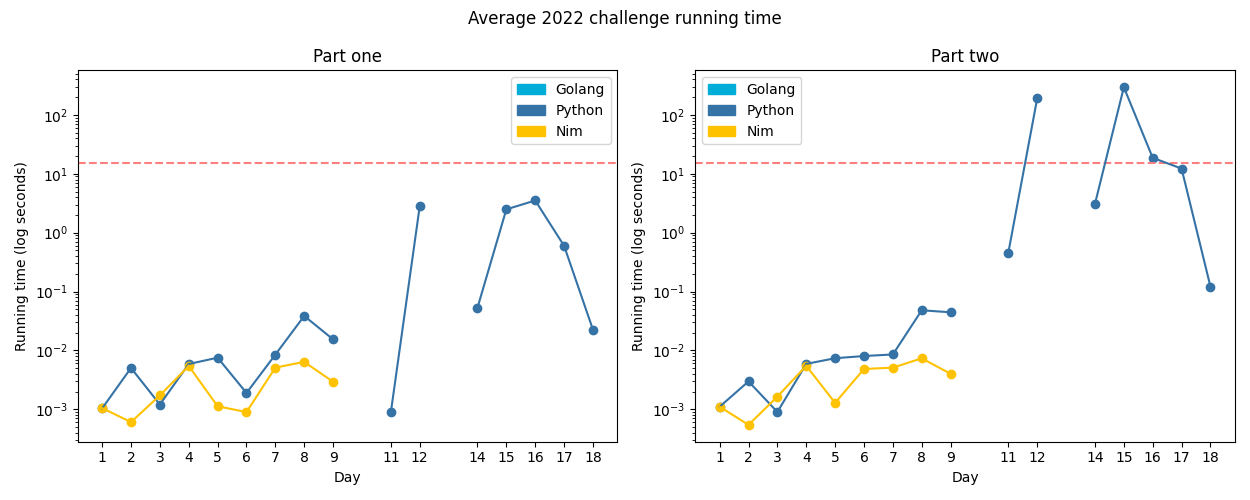
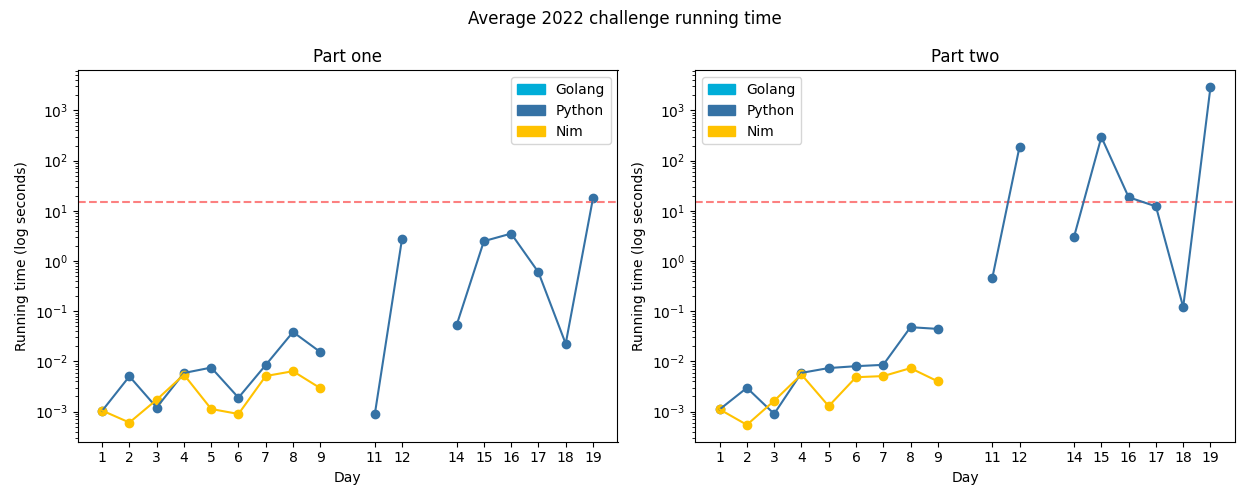
2022-19
2022-19 attempt 1

2022-19 attempt 2

I think this is semi-functional

2022-19

diff --git a/challenges/2022/19-notEnoughMinerals/py/__init__.py b/challenges/2022/19-notEnoughMinerals/py/__init__.py
@@ -1,0 +1,143 @@
+from typing import *
+from aocpy import BaseChallenge, foldl
+from dataclasses import dataclass
+import re
+from enum import Enum
+
+
+class Material(Enum):
+    ORE = 0
+    CLAY = 1
+    OBSIDIAN = 2
+    GEODE = 3
+
+
+MaterialTracker = Tuple[int, int, int, int]
+
+
+@dataclass(init=False)
+class Blueprint:
+    number: int
+
+    robots: Dict[Material, MaterialTracker]
+
+    def __init__(self, number: int, ore_robot_cost: int, clay_robot_cost: int, obsidian_robot_cost_ore: int, obsidian_robot_cost_clay: int, geode_robot_cost_ore: int, geode_robot_cost_obsidian: int):
+        self.number = number
+    
+        self.robots = {
+            Material.ORE: (ore_robot_cost, 0, 0, 0),
+            Material.CLAY: (clay_robot_cost, 0, 0, 0),
+            Material.OBSIDIAN: (obsidian_robot_cost_ore, obsidian_robot_cost_clay, 0, 0),
+            Material.GEODE: (geode_robot_cost_ore, 0, geode_robot_cost_obsidian, 0),
+        }
+
+    def iter_robots(self) -> Generator[Tuple[Material, MaterialTracker], None, None]:
+        for key in self.robots:
+            yield (key, self.robots[key])
+
+    def __hash__(self) -> int:
+        return hash(self.number)
+
+
+parse_re = re.compile(r"Blueprint (\d+): Each ore robot costs (\d+) ore\. Each clay robot costs (\d+) ore\. Each obsidian robot costs (\d+) ore and (\d+) clay\. Each geode robot costs (\d+) ore and (\d+) obsidian\.")
+
+
+def parse(instr: str) -> List[Blueprint]:
+    res: List[Blueprint] = []
+    for line in instr.strip().splitlines():
+        res.append(
+            Blueprint(*map(int, parse_re.match(line).groups())),
+        )
+    return res
+
+
+def calc_max_geodes(blueprint: Blueprint, max_time: int, materials: MaterialTracker, robots: MaterialTracker, robot_quota: MaterialTracker, minute: int, cannot_build: int) -> int:
+    if minute == max_time + 1:
+        return materials[Material.GEODE.value]
+
+    try_build: int = 0
+    for (robot_type, robot_materials) in blueprint.iter_robots():
+        rtv = robot_type.value
+        if cannot_build & (1 << rtv) != 0:
+            continue
+
+        if robot_type != Material.GEODE and robots[rtv] == robot_quota[rtv]:
+            continue
+
+        has_enough_materials = True
+        for (required, available) in zip(robot_materials, materials):
+            if required > available:
+                has_enough_materials = False
+                break
+
+        if has_enough_materials:
+            try_build = try_build | (1 << robot_type.value)
+
+    materials = (
+        materials[0] + robots[0],
+        materials[1] + robots[1],
+        materials[2] + robots[2],
+        materials[3] + robots[3],
+    )
+
+    max_score = 0
+    for i in range(5):
+        if i == 4 and cannot_build | try_build != 0b1111:
+            # always try not building anything
+            sc = calc_max_geodes(blueprint, max_time, materials, robots, robot_quota, minute + 1, cannot_build | try_build)
+        else:
+            if try_build & (1 << i) == 0:
+                continue
+
+            robot_type = Material(i)
+            robot_materials = blueprint.robots[robot_type]
+
+            # subtract materials required to build this robot
+            mc = (
+                materials[0] - robot_materials[0],
+                materials[1] - robot_materials[1],
+                materials[2] - robot_materials[2],
+                materials[3],
+            )
+
+            # update robot counts
+            rc = tuple((robots[j] + (1 if i == j else 0) for j in range(4)))
+
+            # recurse
+            sc = calc_max_geodes(blueprint, max_time, mc, rc, robot_quota, minute + 1, 0)
+        
+        if sc is not None and sc > max_score:
+            max_score = sc
+        
+    return max_score
+
+
+class Challenge(BaseChallenge):
+
+    @staticmethod
+    def one(instr: str) -> int:
+        inp = parse(instr)
+
+        quals: List[int] = []
+        for bp in inp:
+            robot_quota: Tuple[int] = tuple(max(x) for x in zip(*bp.robots.values()))
+            quals.append(
+                calc_max_geodes(bp, 24, (0,0,0,0), (1,0,0,0), robot_quota, 1, 0) * bp.number,
+            )
+
+        return sum(quals)
+
+    @staticmethod
+    def two(instr: str) -> int:
+        inp = parse(instr)
+
+        nums: List[int] = []
+        for bp in inp[:min(3, len(inp))]:
+            print(f"{bp.number=}", flush=True)
+            robot_quota: Tuple[int] = tuple(max(x) for x in zip(*bp.robots.values()))
+            nums.append(
+                calc_max_geodes(bp, 32, (0,0,0,0), (1,0,0,0), robot_quota, 1, 0)
+            )
+            print(nums[-1], flush=True)
+
+        return foldl(lambda x, y: x * y, nums, 1)

diff --git a/challenges/2022/19-notEnoughMinerals/runtime-wrapper.py b/challenges/2022/19-notEnoughMinerals/runtime-wrapper.py
@@ -1,0 +1,50 @@
+from py import Challenge
+
+import time
+import json
+
+# TASKS_STR = input()
+# TASKS = json.loads(TASKS_STR)
+
+def send_result(task_id, ok, output, duration):
+    print(json.dumps({
+        "task_id": task_id,
+        "ok": ok,
+        "output": str(output) if output is not None else "",
+        "duration": float(duration),
+    }), flush=True)
+
+while True:
+    task = json.loads(input())
+    taskPart = task["part"]
+    task_id = task["task_id"]
+
+    run = None
+
+    if taskPart == 1:
+        run = lambda: Challenge.one(task["input"])
+    elif taskPart == 2:
+        run = lambda: Challenge.two(task["input"])
+    elif taskPart == 3:
+        run = lambda: Challenge.vis(task["input"], task["output_dir"])
+    else:
+        send_result(task_id, False, "unknown task part", 0)
+        continue
+
+    start_time = time.time()
+    res = None
+    err = None
+    try:
+        res = run()
+    except Exception as e:
+        err = f"{type(e)}: {e}"
+        import traceback
+        err = f"{type(e)}: {e}\n{''.join(traceback.format_tb(e.__traceback__))}"
+    end_time = time.time()
+
+    running_time = end_time-start_time
+
+    if err is not None:
+        send_result(task_id, False, err, running_time)
+    else:
+        send_result(task_id, True, res, running_time)

diff --git a/runtime/main.go b/runtime/main.go
@@ -26,6 +26,7 @@ var args struct {
 	Benchmark      bool   `arg:"-b,--benchmark" help:"benchmark a day's implementations'"`
 	BenchmarkN     int    `arg:"-n,--benchmark-n" help:"Number of iterations to run for benchmarking" default:"1000"`
 	TestOnly       bool   `arg:"-t,--test-only" help:"Only run test inputs"`
+	NoTest         bool   `arg:"-x,--no-test" help:"Do not run test inputs"`
 	Visualise      bool   `arg:"-g,--visualise" help:"Run visualisation generation"`
 }
 
@@ -123,8 +124,10 @@ func run() error {
 
 		fmt.Print("Running...\n\n")
 
-		if err := runTests(runner, challengeInfo); err != nil {
-			return err
+		if !args.NoTest {
+			if err := runTests(runner, challengeInfo); err != nil {
+				return err
+			}
 		}
 
 		if !args.TestOnly {

diff --git a/challenges/2022/README.md b/challenges/2022/README.md
@@ -34,3 +34,4 @@ The red dotted line denotes 15 seconds.
 | 16 - Proboscidea Volcanium          | ★ ★                | [Python](16-proboscideaVolcanium/py/__init__.py) | Nasty combinatorics |
 | 17 - Pyroclastic Flow               | ★ ★                | [Python](17-pyroclasticFlow/py/__init__.py) | Detecting cycles in a large amount of knock-off Tetris. |
 | 18 - Boiling Boulders               | ★ ★                | [Python](18-boilingBoulders/py/__init__.py) | Finding the surface area of a shape specified by a list of unit cubes. |
+| 19 - Not Enough Minerals               | ★ ★                | [Python](19-notEnoughMinerals/py/__init__.py) | Finding the most effective sequence of operations to complete a specific task. |

diff --git a/challenges/2022/19-notEnoughMinerals/README.md b/challenges/2022/19-notEnoughMinerals/README.md
@@ -1,0 +1,3 @@
+# [Day 19: Not Enough Minerals](https://adventofcode.com/2022/day/19)
+
+My part 2 took 48 minutes to run. ***48!!*** Even though part 1 only took 17! aaaaaaaaaaa
